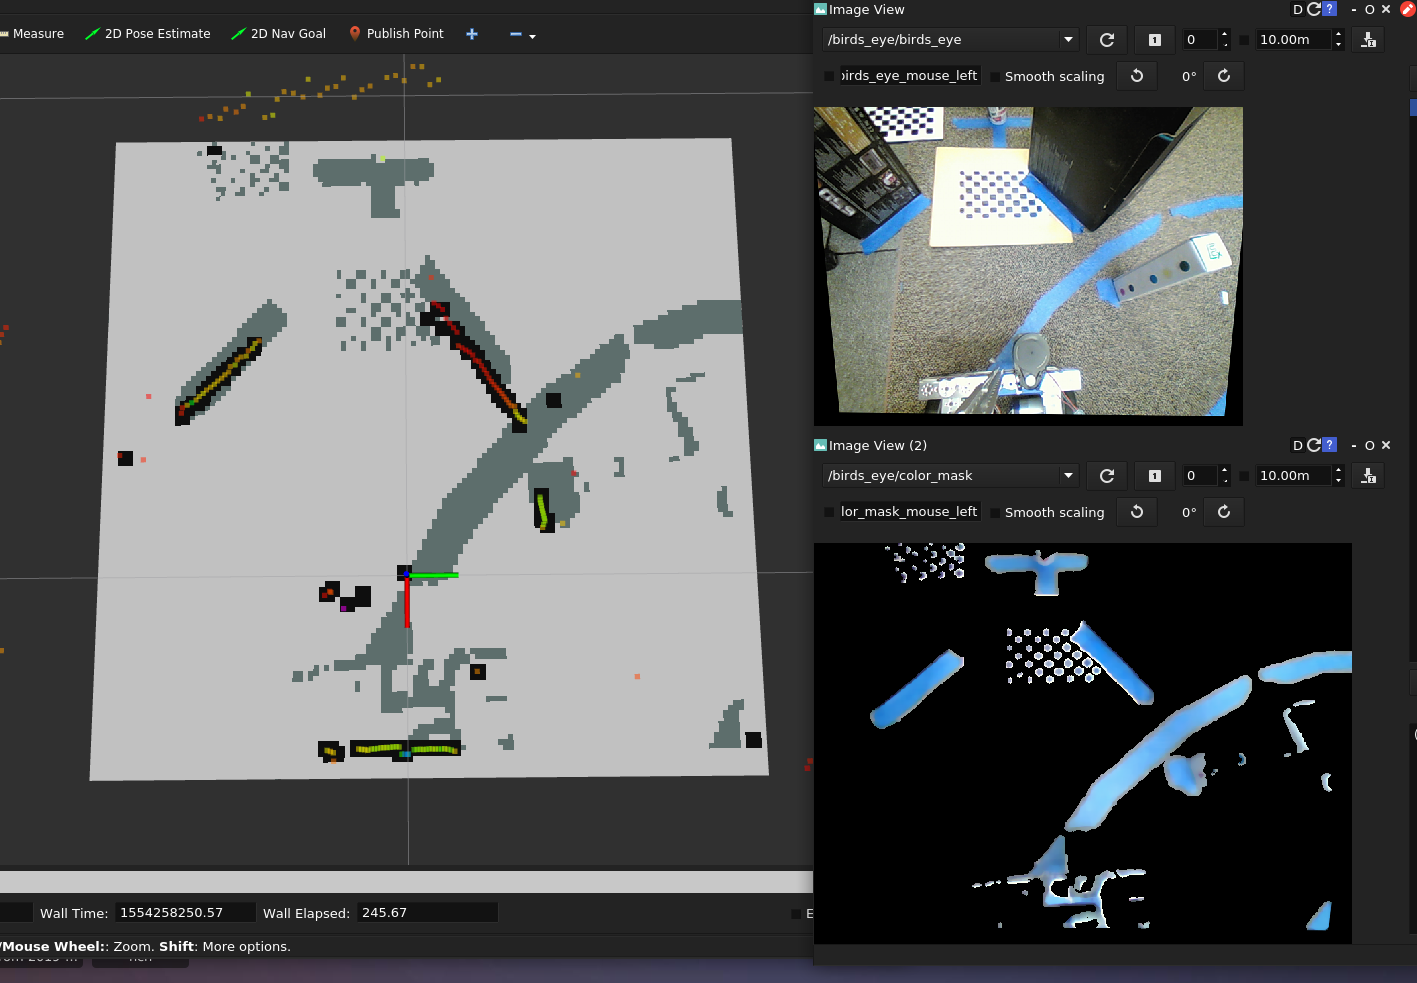
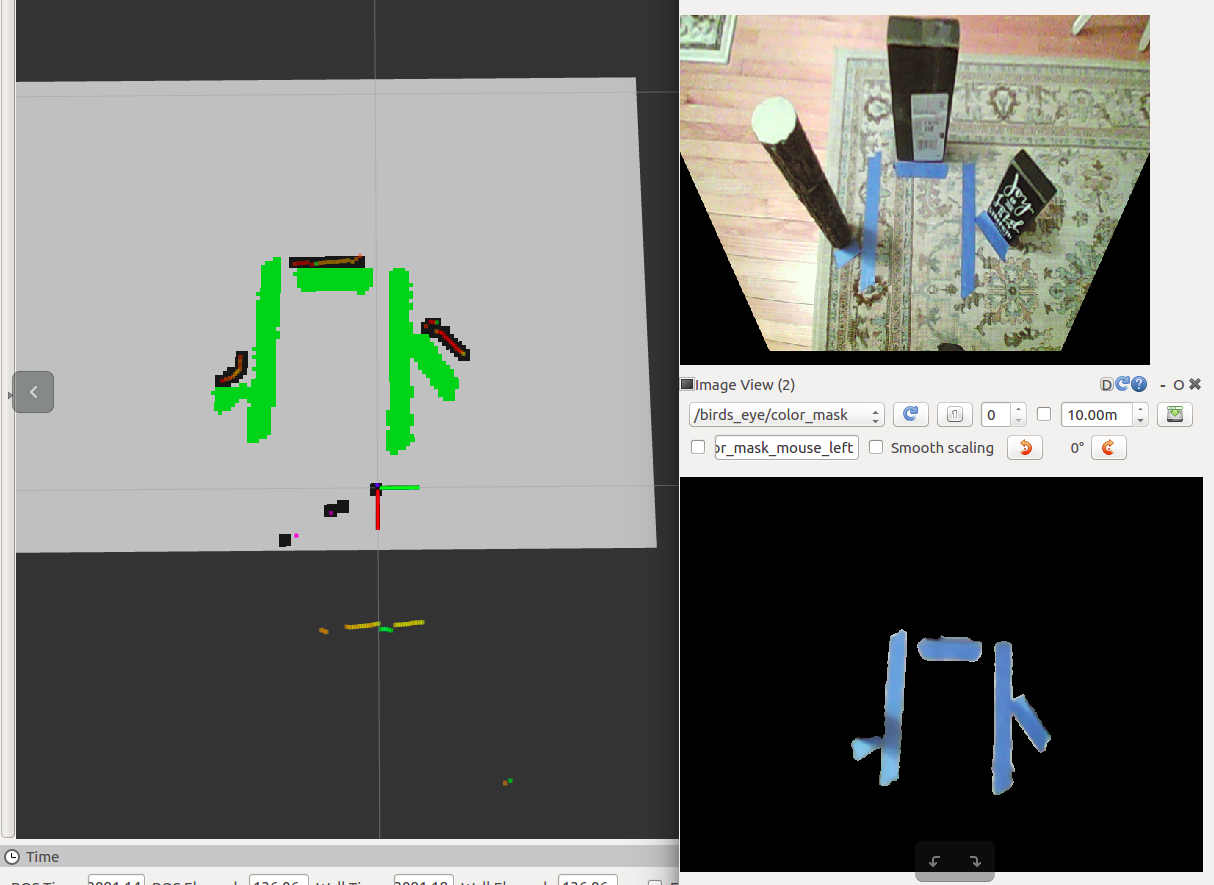
variable sized images; add how-to video

diff --git a/src/birds_eye.cpp b/src/birds_eye.cpp
@@ -149,22 +149,23 @@ void BirdsEye::makeOccupancyGrid(const cv::Mat &in, const sensor_msgs::LaserScan
     cv::Mat gray;
     cv::cvtColor(in, gray, cv::COLOR_BGR2GRAY);
 
-    const int width = 128;
-    const int height = 128;
-
-    cv::Size image_size = in.size();
+    cv::Size image_size = gray.size();
     const int image_width  = image_size.width;
     const int image_height = image_size.height;
 
-    double width_ratio  = (double)image_width / (double)width;
-    double height_ratio = (double)image_height / (double)height;
+    const int width = image_height / 4;
+    const int height = image_width / 4;
+
+
+    double width_ratio  = (double)image_height / (double)width;
+    double height_ratio = (double)image_width / (double)height;
 
     assert(width  < image_width);
     assert(height < image_height);
 
 
     // Build Grid 
-    const double resolution = 0.01;
+    const double resolution = config_.grid_res;
     grid.info.resolution = resolution;
     grid.info.width = width;
     grid.info.height = height;
@@ -176,14 +177,15 @@ void BirdsEye::makeOccupancyGrid(const cv::Mat &in, const sensor_msgs::LaserScan
     grid.data.resize(width * height);
 
     // Add pixels to grid
-    for (int i = 0; i < width; i++)
+    for (int x = 0; x < width; x++)
     {
-        for (int j = 0; j < height; j++)
+        for (int y = 0; y < height; y++)
         {
-            const uint8_t pixel = gray.at<uchar>(
-                    std::floor(i * height_ratio), 
-                    std::floor(j * width_ratio));
-            grid.data[i + j*width] = pixel == 0 ? 0 : 127;
+            const int row = x * width_ratio;
+            const int col = y * height_ratio;
+            const uint8_t pixel = gray.at<uchar>(row, col);
+
+            grid.data[x + y*width] = pixel == 0 ? 0 : 127;
         }
     }
 
@@ -202,13 +204,9 @@ void BirdsEye::makeOccupancyGrid(const cv::Mat &in, const sensor_msgs::LaserScan
         double x = radius * std::cos(theta) - grid.info.origin.position.x;
         double y = radius * std::sin(theta) - grid.info.origin.position.y;
 
-        x += config_.scan_offset_x;
-        y += config_.scan_offset_y;
-        double scale_shift = config_.scan_scale_shift;
-
         // Add to occupancy grid
-        int i = std::floor((1/resolution) * x * scale_shift);
-        int j = std::floor((1/resolution) * y * scale_shift);
+        int i = std::floor((1/resolution) * x);
+        int j = std::floor((1/resolution) * y);
 
         // Dilate Pixels
         i -= 1;
@@ -217,7 +215,7 @@ void BirdsEye::makeOccupancyGrid(const cv::Mat &in, const sensor_msgs::LaserScan
         {
             for (int dj = 0; dj < 3; dj++)
             {
-                if ((i+di) < width && (j+dj) < width && (i+di) > 0 && (j+dj) > 0)
+                if ((i+di) < width && (j+dj) < height && (i+di) > 0 && (j+dj) > 0)
                 {
                     grid.data[(i+di) + (j+dj)*width] = 100; // different number than image, still non-zero
                 }
@@ -235,9 +233,9 @@ void BirdsEye::birdsEye(const cv::Mat& source, cv::Mat& destination)
 {
     using namespace cv;
 
-    double alpha        =(config_.alpha -90) * M_PI/180;
-    double beta         =(config_.beta -90) * M_PI/180;
-    double gamma        =(config_.gamma -90) * M_PI/180;
+    double alpha        = (config_.alpha - 90) * M_PI/180;
+    double beta         = 0; // (config_.beta -90) * M_PI/180;
+    double gamma        = 0; // (config_.gamma -90) * M_PI/180;
     double dist         = config_.dist;
     double focalLength  = config_.f;
 

diff --git a/README.md b/README.md
@@ -1,6 +1,18 @@
-Change the camera path in `launch/camera.launch`
+# `birds_eye`
 
+Project lidar data and camera data onto an occupancy grid for simple local navigation
+
+![example](img/example.png)
+
+## Running
+
+Change the camera path in `launch/camera.launch`
 
 ```
 roslaunch birds_eye birds_eye.launch
 ```
+
+## Configuration
+
+[![config_video](img/config_video.png)](https://youtu.be/uj6eqsdXZck)
+
